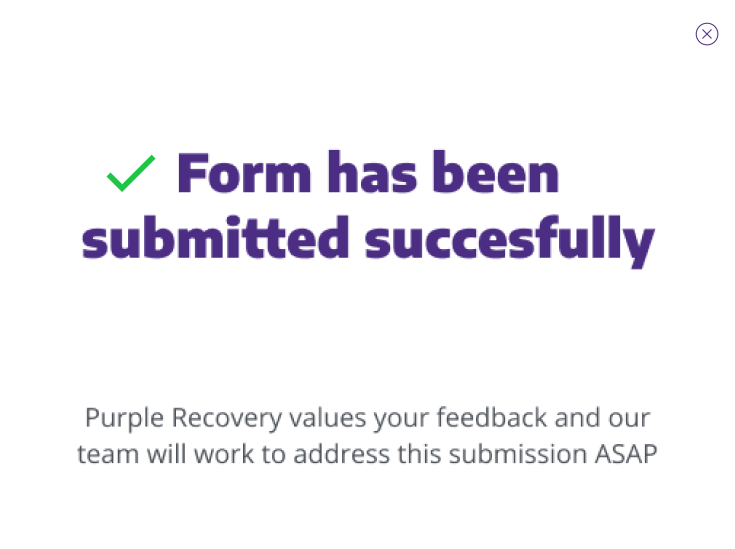
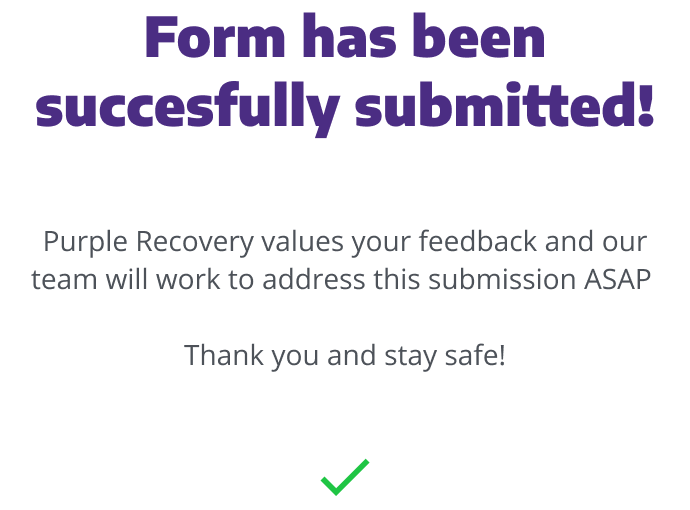
Add styling for submitSuccessView and FormValidation.js

diff --git a/src/components/DropANote.js b/src/components/DropANote.js
@@ -125,15 +125,15 @@ class FormModalView extends Component {
 class SubmitSuccessView extends Component {
   render () {
     return (
-      <Modal show={this.props.show} onHide={this.props.hide}>
+      <Modal show={this.props.show} onHide={this.props.hide} className="modal-blur" size="lg">
         <Modal.Header>
           <Modal.Title />
           <button onClick={this.props.hide} className="close-button">
-            <img src={require("./img/close.png")} alt="Close form"/>
+            <img src={require("./img/close.png")} alt="Close form button"/>
           </button>
         </Modal.Header>
         <Modal.Body>
-          Form has been submitted successfully! Thank you for sharing
+        <img className="submission-success-img" src={require("./img/success.png")} alt="Form has been submitted successfully!"/>
         </Modal.Body>
       </Modal>
     );

diff --git a/src/components/FormValidation.js b/src/components/FormValidation.js
@@ -153,7 +153,7 @@ export default function FormValidation(props) {
         {/* Feedback text input */}
         <div className="column">
           <label className="form-label">Feedback:</label>
-          <input type="text" placeholder="Feedback" disabled={!disabled} name="feedback" ref={register} />
+          <input type="text" placeholder="Comments, questions, etc." disabled={!disabled} name="feedback" ref={register} />
         </div>
       </div>
 
@@ -164,7 +164,7 @@ export default function FormValidation(props) {
           <input
             name="link"
             type="url"
-            placeholder="Enter a URL"
+            placeholder="Insert full URL (https://...)"
             disabled={disabled}
             ref={
               register({

diff --git a/src/css/App.css b/src/css/App.css
@@ -37,10 +37,16 @@
   }
 }
 
-.modal-blur {
-  backdrop-filter: blur(5px);
+.submission-success-img{
+  display: block;
+  margin-left: auto;
+  margin-right: auto;
+  width: 70%;
+}
 
-  /* background-color: rgb(51, 0, 111, 0.8); */
+.modal-blur {
+  backdrop-filter: blur(2px);
+  background-color: rgb(51, 0, 111, 0.5); 
 }
 
 .close-button {
@@ -51,14 +57,14 @@
 
 #form {
   font-family: 'Open Sans', sans-serif;
-  padding: 20
+  padding: 20;
 }
 
-/* Float four columns side by side */
+/* Float columns side by side */
 .column {
   float: left;
   width: 30%;
-  padding-left: 40px;
+  padding-left: 45px;
   border: none;
   border: 0;
 }
